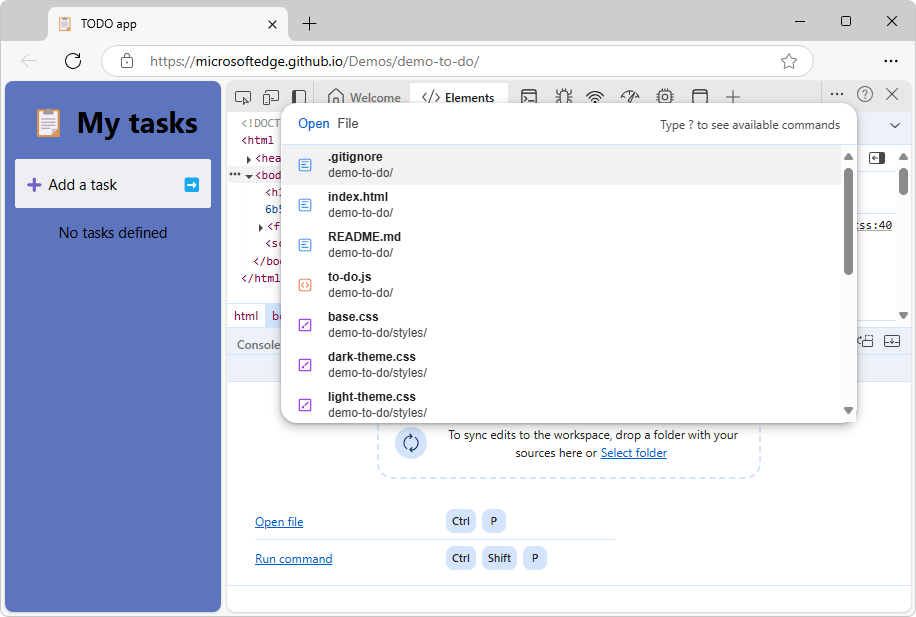
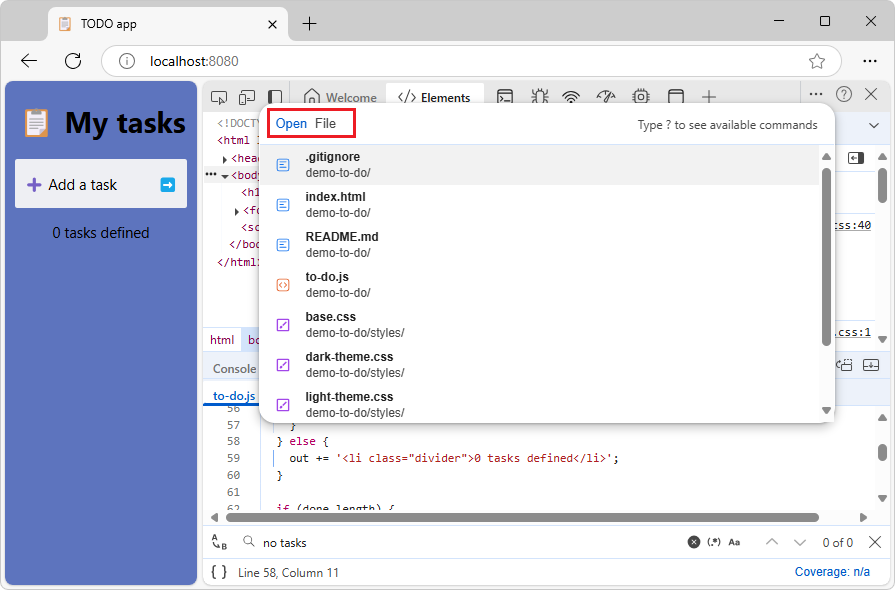
localhost in Quick source

Changed region(s): [[0.0, 0.0, 0.9955, 1.0], [0.9654, 0.7627, 0.9955, 0.7932], [0.0, 0.061, 0.0302, 0.0915]]

diff --git a/microsoft-edge/devtools-guide-chromium/quick-source/quick-source-tool.md b/microsoft-edge/devtools-guide-chromium/quick-source/quick-source-tool.md
@@ -10,24 +10,13 @@ ms.date: 03/07/2025
 ---
 # Display or edit source files using the Quick source tool
 <!-- https://developer.chrome.com/docs/devtools/quick-source -->
-<!-- first give the always-available GUI way, then keyboard shortcuts
-don't doc the empty tool UI, which is transient and is designed for the Sources tool -->
+<!-- give the always-available GUI way, don't doc the empty tool UI -->
 
 Use the **Quick source** tool to display or edit source files at the same time as displaying a tool other than the **Sources** tool.  The **Quick source** tool always displays the same files that are open in the **Sources** tool.
 
-![The Quick source tool](./quick-source-tool-images/quick-source-tool.png)
+![The Quick source tool](./quick-source-tool-images/quick-source-tool.png)<!-- todo: localhost -->
 
 The main place to view source files in the DevTools is within the **Sources** tool.  But sometimes you need to access other tools, such as **Elements** or **Console**, while viewing or editing your source files.  Use the **Quick source** tool, which by default opens in the **Quick View** panel at the bottom of DevTools.
-
-<!-- incoming overflow: removed from Workspace tut so that can focus only on teaching Workspace, not also Quick source.
-You can edit and save the JavaScript (or HTML or CSS) file in the **Sources** tool's editor, or in the **Quick source** tool in the **Quick View** panel at the bottom of DevTools.
-
-The main place to use the code editor of DevTools is the **Sources** tool.  But sometimes you need to access other tools, such as the **Elements** tool or the **Console**, while editing files.  The **Quick source** tool gives you just the editor from the **Sources** tool (without the **Navigator** or **Debugger** pane), while any tool is open in the upper part of DevTools.
-
-We'll walk through a couple ways to open the **Quick source** tool and open a file in the **Quick source** tool:
-* The regular, GUI way.
-* The **Command Menu** shortcut way.
--->
 
 
 <!-- ------------------------------ -->
@@ -43,11 +32,11 @@ If you open or close a file in one tool, the file is opened or closed in the oth
 <!-- ====================================================================== -->
 ## Open a file in the Quick source tool
 
-<!-- todo: run & show localhost in addr bar instead of github.io? -->
+<!-- todo: run & show localhost in addr bar instead of github.io -->
 
 To view source files while using a tool than the **Sources** tool in the **Activity Bar**, use the **Quick source** tool, as follows:
 
-1. Open a webpage; for example, open [Demo To Do](https://microsoftedge.github.io/Demos/demo-to-do/) in a new window or page.
+1. Open a webpage; for example, open [Demo To Do](https://microsoftedge.github.io/Demos/demo-to-do/) in a new window or page.<!-- todo: localhost -->
 
 1. Right-click the webpage and then select **Inspect**.
 
@@ -69,7 +58,7 @@ To view source files while using a tool than the **Sources** tool in the **Activ
 
    The **Quick source** tool expands in **Quick View** at the bottom of DevTools, and displays the same files that are open in the **Sources** tool:
 
-   ![A file displayed in the Quick source tool](./quick-source-tool-images/file-displayed-in-quick-source.png)
+   ![A file displayed in the Quick source tool](./quick-source-tool-images/file-displayed-in-quick-source.png)<!-- todo: simpler display -->
 
 You can now view or edit the file in the **Quick source** tool, at the same time as displaying a different tool in the main part of DevTools.
 
@@ -91,12 +80,16 @@ To edit source files in the **Quick source** tool:
 These steps are detailed below.
 
 
-<!-- ------------------------------ -->
-#### Have local source files, such as a cloned repo
+<!-- ====================================================================== -->
+## Have local source files, such as a cloned repo
 
 To use the **Quick source** tool to save changes locally, you must have local source files that match the web server files.  Make sure there are source files on your local drive, that match the transient files that are returned by the web server.
 
 For example, if not done already, clone the **MicrosoftEdge / Demos** repo to your local drive, as follows:
+
+1. If not done already, [Download git](https://git-scm.com/downloads) and install it.
+
+1. If not done already, install an up-to-date version of Node.js and npm from [Node.js](https://nodejs.org).
 
 1. Go to [MicrosoftEdge / Demos](https://github.com/MicrosoftEdge/Demos) in a new window or tab.
 
@@ -132,10 +125,59 @@ Now you have a local folder of source files (such as `/demo-to-do/`) that match 
 Continue with the next section.
 
 
-<!-- ------------------------------ -->
-#### Select a local folder of source files as the Workspace
+<!-- ====================================================================== -->
+## Start a localhost server
 
-<!-- todo: start localhost server -->
+1. Go to a command prompt, such as the git bash shell, or the Terminal pane in Microsoft Visual Studio Code.
+
+1. Go to the cloned `/demo-to-do/` directory, such as `C:\Users\localAccount\GitHub\Demos\demo-to-do\`.
+
+   If you use the git bash shell, it's a UNIX shell, so even on Windows, you need to wrap a directory path that has backslashes in quotes, or else use forward slashes rather than backslashes.
+
+1. Run one of the following commands, to start the web server:
+
+   ```bash
+   # Node.js option
+   cd ~/GitHub/demos/demo-to-do
+   npx http-server  # Node.js
+   ```
+
+   For more information and options, see [Start the server (npx http-server)](../../visual-studio-code/microsoft-edge-devtools-extension/install.md#start-the-server-npx-http-server) in _Installing the DevTools extension for Visual Studio Code_.
+
+   ``` bash
+   # Python 2 option
+   cd ~/GitHub/demos/demo-to-do
+   python -m SimpleHTTPServer  # Python 2
+   ```
+  
+   ``` bash
+   # Python 3 option
+   cd ~/GitHub/demos/demo-to-do
+   python -m http.server  # Python 3
+   ```
+
+1. Open a tab in Microsoft Edge, and go to the locally hosted version of the site.  You should be able to access it by using `localhost:8080`:
+
+   ![The DevTools TODO app demo](./quick-source-tool-images/demo-to-do.png)
+
+   Another common equivalent URL is `http://0.0.0.0:8080`.  The default port number for the Python server option is `8000`.  The exact [port number](https://wikipedia.org/wiki/Port_(computer_networking)#Use_in_URLs) might be different.
+
+   The **DevTools Workspaces Demo** webpage opens.
+
+See also:
+* [Running a simple local HTTP server](https://developer.mozilla.org/docs/Learn/Common_questions/set_up_a_local_testing_server#running_a_simple_local_http_server) in _How do you set up a local testing server?_ at MDN - shows Python.
+<!--
+* [Set up a localhost server](../../visual-studio-code/microsoft-edge-devtools-extension/install.md#step-6-set-up-a-localhost-server) in _Installing the DevTools extension for Visual Studio Code_.  How to run a local HTTP web server by using Node.js. -->
+
+Continue with the next section.
+
+
+<!-- ====================================================================== -->
+## Select a local folder of source files as the Workspace
+
+1. Continuing from above, right-click the demo webpage and then select **Inspect**.
+
+   DevTools opens.
 
 1. In the **Activity Bar** at the top of DevTools, select the **Sources** (![The Sources tool icon](./quick-source-tool-images/sources-icon.png)) tool, select the **Workspace** tab (grouped with the **Page** tab), and then in the **Workspace** tab, click the **Add folder** button.
 
@@ -147,27 +189,31 @@ Continue with the next section.
 
 1. Click the **Allow** button.
 
-   The **Sources** tool is opened.
+   The tree of `demo-to-do` files appears in the **Workspace** tab of the **Sources** tool.  The HTML, JS, and CSS files have a green "mapped" dot.
 
-1. In the **Sources** tool, in the **Workspace** tab, expand the tree, and then click one or more files, such as `to-do.js`.
+1. In the **Workspace** tab, expand the file tree, and then click one or more files, such as `to-do.js`.
 
    The file opens in the **Sources** tool:
 
-   ![The Sources tool with a file selected](./quick-source-tool-images/sources-tool-with-file-selected.png)<!-- todo: localhost in addr bar -->
+   ![The Sources tool with a file selected](./quick-source-tool-images/sources-tool-with-file-selected.png)
 
 1. In the **Activity Bar** at the top of DevTools, select a tool other than the **Sources** tool, such as the **Elements** tool.
 
    The **Quick source** tool expands in **Quick View** at the bottom of DevTools, and has a tab for each open file:
 
-   ![A file displayed in the Quick source tool.](./quick-source-tool-images/file-displayed-in-quick-source-2.png)<!-- copied from above then appended -2 --><!-- todo: localhost in addr bar -->
+   ![A file displayed in the Quick source tool.](./quick-source-tool-images/file-displayed-in-quick-source-2.png)<!-- todo: localhost in addr bar -->
+
+1. If there's no longer a green "mapped" dot on the HTML, JS, or CSS file, long-click or right-click the **Refresh** button in Microsoft Edge, and then select **Hard refresh** (**Ctrl+Shift+R**).
 
 Continue with the next section.
 
 
-<!-- ------------------------------ -->
-#### Open the Quick source tool
+<!-- ====================================================================== -->
+## Open the Quick source tool and edit a file
 
-1. In the **Activity Bar**, select a tool other than the **Sources** tool, such as the **Elements** tool.
+Suppose you want to continue viewing the **Elements** tool, but you want to simultaneously view and edit the source files that were opened via the **Sources** tool.
+
+1. Continuing from above, in the **Activity Bar**, select a tool other than the **Sources** tool, such as the **Elements** tool.
 
 1. If the **Quick View** toolbar isn't shown at the bottom of DevTools, press **Esc**.
 
@@ -175,10 +221,33 @@ Continue with the next section.
 
    The **Quick source** tool opens in **Quick View** at the bottom of DevTools:
 
-   ![The Quick source tool, containing a Select folder link](./quick-source-tool-images/quick-source-select-folder.png)
+   ![The Quick source tool, containing a Select folder link](./quick-source-tool-images/quick-source-select-folder.png)<!--todo:localhost-->
 
-   The **Quick source** tool might show instructions including an **Select folder** link, or it might display a file.  Instead of relying on that transient link, the steps further below show how to use the **Workspace** tab in the **Sources** tool, to select a local folder of source files.
+   `todo.js` is displayed, because that file is open in the **Sources** tool.
 
+1. In the demo To Do webpage, delete any tasks.
+
+1. Click the **Quick source** panel, and then press **Ctrl+F**.
+
+   In the **Quick source** tool, the **Find** UI appears.
+
+1. Enter **no tasks**, and then press **Enter**.
+
+1. In the line of code, change `no tasks` to `0 tasks`.
+
+   An asterisk appears on the file name tab.
+
+1. Press **Ctrl+S**.
+
+   The asterisk is removed from the file name tab.
+
+1. Refresh the demo webpage (**Ctrl+R**).
+
+1. If the rendered webpage doesn't change from "No" to "0", and there's no longer a green "mapped" dot on the JS file name tab, long-click or right-click the **Refresh** button in Microsoft Edge, and then select **Hard refresh** (**Ctrl+Shift+R**).
+
+   The rendered webpage changes from "No" to "0", and there's a green "mapped" dot on the JS file name tab.
+
+   ![An edited .js file in the Quick source tool, with refreshed demo webpage](./quick-source-tool-images/edited-js-file.png)
 
 Now, when you edit the folder's files in DevTools, the edits are not only made to the transient file that's returned by the server, but are also saved to the source files on your local drive.  You can edit the file from within the **Quick source** tool at the same time as displaying another tool (or from within the **Sources** tool).
 
@@ -218,6 +287,18 @@ To open a file by using the **Open File** prompt of the **Command Menu**, do any
   The **Open File** prompt of the **Command Menu** is displayed.
 
   To display the **Open file** link in the instructions in the panel, you might need to scroll down, or drag the **Quick View** divider up to make the **Quick View** panel taller.
+
+
+<!-- ====================================================================== -->
+## Keyboard shortcuts in the Quick source tool
+
+The **Quick source** tool has a streamlined UI.  Use these keyboard shortcuts.
+
+* **Ctrl+F** - Find.
+
+* **Ctrl+S** - Save.  If there's no longer a green "mapped" dot on the HTML, JS, or CSS file name, long-click or right-click the **Refresh** button in Microsoft Edge, and then select **Hard refresh** (**Ctrl+Shift+R**).
+
+* **Ctrl+P** - Open a file by using the **Command Menu**.  Same as going to the **Sources** tool and then clicking a file in the **Workspace** tab.
 
 
 <!-- ====================================================================== -->

diff --git a/microsoft-edge/devtools-guide-chromium/sources/index.md b/microsoft-edge/devtools-guide-chromium/sources/index.md
@@ -6,7 +6,7 @@ ms.author: msedgedevrel
 ms.topic: conceptual
 ms.service: microsoft-edge
 ms.subservice: devtools
-ms.date: 07/21/2023
+ms.date: 04/18/2025
 ---
 <!-- Copyright Kayce Basques
 
@@ -25,19 +25,39 @@ ms.date: 07/21/2023
 
 Use the **Sources** tool to view, modify, and debug front-end JavaScript code, and to inspect the resources that make up the current webpage.
 
-
 **Detailed contents:**
 
-todo: update
-
-<!-- omit h4s
-      * [Icons in the Page tab](#icons-in-the-page-tab)
-      * [Group files by folder or as a flat list](#group-files-by-folder-or-as-a-flat-list)
-
-      * [Save and Undo](#save-and-undo)
-      * [Find and Replace](#find-and-replace)
-      * [Showing the changes you made](#showing-the-changes-you-made)
-      * [Changes inside a function take effect](#changes-inside-a-function-take-effect) -->
+* [The Navigator, Editor, and Debugger panes](#the-navigator-editor-and-debugger-panes)
+* [Using the Navigator pane to select files](#using-the-navigator-pane-to-select-files)
+   * [Using the Page tab to explore resources that construct the current webpage](#using-the-page-tab-to-explore-resources-that-construct-the-current-webpage)
+         * [Icons in the Page tab](#icons-in-the-page-tab)
+         * [Group files by folder or as a flat list](#group-files-by-folder-or-as-a-flat-list)
+   * [Add a local folder to the workspace, to use DevTools to edit files and save changes to disk](#add-a-local-folder-to-the-workspace-to-use-devtools-to-edit-files-and-save-changes-to-disk)
+   * [Using the Overrides tab to override server files with local files](#using-the-overrides-tab-to-override-server-files-with-local-files)
+   * [Using the Content scripts tab for Microsoft Edge extensions](#using-the-content-scripts-tab-for-microsoft-edge-extensions)
+   * [Using the Snippets tab to run JavaScript code snippets on any webpage](#using-the-snippets-tab-to-run-javascript-code-snippets-on-any-webpage)
+   * [Using the Command Menu to open files](#using-the-command-menu-to-open-files)
+* [Using the Editor pane to view or edit files](#using-the-editor-pane-to-view-or-edit-files)
+   * [Editing a JavaScript file](#editing-a-javascript-file)
+         * [Save and Undo](#save-and-undo)
+         * [Find and Replace](#find-and-replace)
+         * [Showing the changes you made](#showing-the-changes-you-made)
+         * [Changes inside a function take effect](#changes-inside-a-function-take-effect)
+   * [Reformatting a minified JavaScript file with pretty-print](#reformatting-a-minified-javascript-file-with-pretty-print)
+   * [Mapping minified code to your source code to show readable code](#mapping-minified-code-to-your-source-code-to-show-readable-code)
+   * [Transformations from source code to compiled front-end code](#transformations-from-source-code-to-compiled-front-end-code)
+   * [Editing CSS](#editing-css)
+         * [Editing CSS by using the Styles tab in the Elements tool, when using the Workspace tab of the Sources tool](#editing-css-by-using-the-styles-tab-in-the-elements-tool-when-using-the-workspace-tab-of-the-sources-tool)
+         * [The Page tab or Workspace tab in the Sources tool](#the-page-tab-or-workspace-tab-in-the-sources-tool)
+   * [Editing an HTML file](#editing-an-html-file)
+   * [Going to a line number or function](#going-to-a-line-number-or-function)
+   * [Quick source tool, to display source files when using a different tool](#quick-source-tool-to-display-source-files-when-using-a-different-tool)
+* [Using the Debugger pane to debug JavaScript code](#using-the-debugger-pane-to-debug-javascript-code)
+   * [The basic approach to using a debugger](#the-basic-approach-to-using-a-debugger)
+   * [Advantages of the debugger's Watch and Scope over console.log](#advantages-of-the-debuggers-watch-and-scope-over-console.log)
+   * [Debug from Visual Studio Code directly](#debug-from-visual-studio-code-directly)
+   * [Articles about debugging](#articles-about-debugging)
+* [See also](#see-also)
 
 
 <!-- ====================================================================== -->

diff --git a/microsoft-edge/devtools-guide-chromium/workspaces/index.md b/microsoft-edge/devtools-guide-chromium/workspaces/index.md
@@ -26,6 +26,28 @@ ms.date: 04/17/2025
 
 To save edits to webpage source files, you can use DevTools like an IDE, by adding the source code folder of the webpage in the **Workspace** tab of the **Sources** tool.  You can then edit and save HTML, CSS, and JS files in the **Sources** tool's editor (or in the **Quick source** tool in the **Quick View** panel at the bottom of DevTools).
 
+**Detailed contents:**
+
+* [Edit and save files in a workspace](#edit-and-save-files-in-a-workspace)
+  * [Overview of the DevTools workspace feature](#overview-of-the-devtools-workspace-feature)
+      * [Limitations of the workspace feature with transformed source code](#limitations-of-the-workspace-feature-with-transformed-source-code)
+          * [Editing CSS by using the Styles tab in the Elements tool, when using the Workspace tab of the Sources tool](#editing-css-by-using-the-styles-tab-in-the-elements-tool-when-using-the-workspace-tab-of-the-sources-tool)
+      * [Related feature: Local Overrides](#related-feature-local-overrides)
+  * [Step 1: Set up the code, server, and workspace](#step-1-set-up-the-code-server-and-workspace)
+      * [Clone the Edge Demos repo to your local drive](#clone-the-edge-demos-repo-to-your-local-drive)
+      * [Start the localhost server](#start-the-localhost-server)
+      * [Add a Workspace folder in the Sources tool](#add-a-workspace-folder-in-the-sources-tool)
+  * [Step 2: Save a CSS change to disk](#step-2-save-a-css-change-to-disk)
+  * [Step 3: Save an HTML change to disk](#step-3-save-an-html-change-to-disk)
+      * [Edited HTML in the DOM tree in the Elements tool isn't preserved after refresh](#edited-html-in-the-dom-tree-in-the-elements-tool-isnt-preserved-after-refresh)
+          * [Why it doesn't work](#why-it-doesnt-work)
+      * [Save HTML changes by opening a file via the Workspace tab of the Sources tool](#save-html-changes-by-opening-a-file-via-the-workspace-tab-of-the-sources-tool)
+  * [Step 4: Save a JavaScript change to disk](#step-4-save-a-javascript-change-to-disk)
+  * [Step 5: Add a .js file using DevTools](#step-5-add-a-.js-file-using-devtools)
+  * [Troubleshooting](#troubleshooting)
+  * [Next steps](#next-steps)
+  * [See also](#see-also)
+
 You can create, copy, rename, and delete source files from within the **Workspace** tab.
 
 Use the **Workspace** tab in the **Sources** tool to display and edit the contents of a folder on your computer from within the **Sources** tool.  The changes that you make to the files in a workspace are saved to your computer.
@@ -110,10 +132,14 @@ See also:
 ## Step 1: Set up the code, server, and workspace
 <!-- https://developer.chrome.com/docs/devtools/workspaces/#setup -->
 
+1. If not done already, [Download git](https://git-scm.com/downloads) and install it.
+
 * Install an up-to-date version of Node.js and npm from [Node.js](https://nodejs.org).
 
 See also:
 * [Install Node.js and Node Package Manager (npm)](../../visual-studio-code/microsoft-edge-devtools-extension/install.md#step-4-install-nodejs-and-node-package-manager-npm) in _Installing the DevTools extension for Visual Studio Code_.
+
+Continue with the next section.
 
 
 <!-- ------------------------------ -->
@@ -177,7 +203,7 @@ Continue with the next section.
 
    ```bash
    # Node.js option
-   cd "C:\Users\localAccount\GitHub\Demos\workspaces\"
+   cd ~/GitHub/demos/workspaces
    npx http-server  # Node.js
    ```
 
@@ -185,13 +211,13 @@ Continue with the next section.
 
    ``` bash
    # Python 2 option
-   cd "C:\Users\localAccount\GitHub\Demos\workspaces\"
+   cd ~/GitHub/demos/workspaces
    python -m SimpleHTTPServer  # Python 2
    ```
   
    ``` bash
    # Python 3 option
-   cd "C:\Users\localAccount\GitHub\Demos\workspaces\"
+   cd ~/GitHub/demos/workspaces
    python -m http.server  # Python 3
    ```
 
